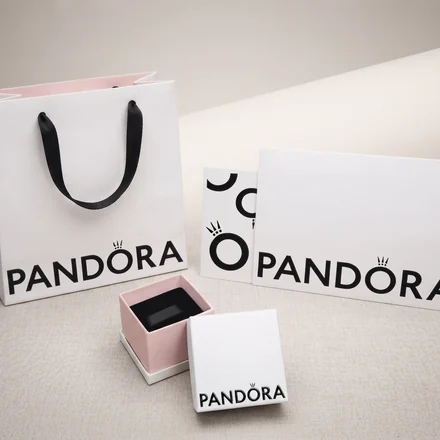
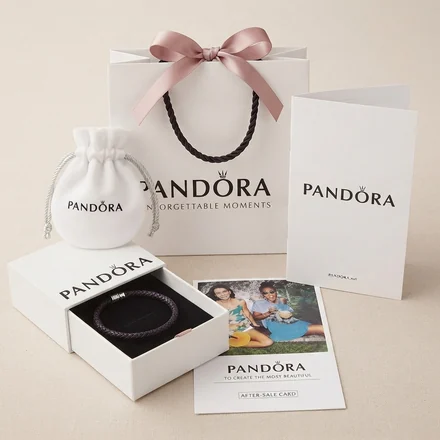
Enseñar el kit de empaque completo, y decir que lo es
El propietario confirma que todo lo que sale en las fotos del empaque es lo que
recibe la clienta por los $40.000. Con eso salen dos correcciones.

La descripcion se quedaba corta: decia "Caja, bolsa y tarjeta" y en el kit va
tambien el saquito. Ahora dice "Bolsa, caja, saquito y tarjeta", en el carrito y
en el resumen del checkout, que son los dos sitios donde aparece.

Y se cambia la foto por la otra de las dos. A 46 px —el tamaño real de la
miniatura— la anterior era una mancha blanca con un asa oscura; esta tiene el
lazo rosa, que le da forma y color, y ademas enseña el saquito y la pieza dentro
de la caja. Que un kit de $40.000 se vea como un kit importa mas que cualquier
rediseño del bump.

Claude-Session: https://claude.ai/code/session_01VSSPYbyepNN7cMwAcyBYuh

diff --git a/index.html b/index.html
@@ -1574,7 +1574,7 @@ body.sheet-open{overflow:hidden}
   <div class="sheet-extras">
     <label class="pack"><input type="checkbox" id="pack">
       <img src="assets/empaque.webp" alt="Empaque Premium: bolsa, caja y tarjeta" width="46" height="46" loading="lazy" decoding="async">
-      <span class="pack-t">Empaque Premium de Regalo <b>+$40.000</b><span class="pack-tag">Recomendado para regalo</span><small>Caja, bolsa y tarjeta</small></span></label>
+      <span class="pack-t">Empaque Premium de Regalo <b>+$40.000</b><span class="pack-tag">Recomendado para regalo</span><small>Bolsa, caja, saquito y tarjeta</small></span></label>
     <div class="pago" id="pago" role="radiogroup" aria-label="Forma de pago">
       <!-- El costo de envío de cada opción lo escribe render(): con el carrito
            por encima del umbral, el anticipado dice «Gratis» y la contraentrega

diff --git a/checkout.html b/checkout.html
@@ -583,7 +583,7 @@ function lineas(c){
       p:CAT.precios[id]*n});
   });
   if(c.empaque) out.push({id:'empaque',n:'Empaque Premium de Regalo',
-    m:'Caja, bolsa y tarjeta',p:CAT.reglas.empaque});
+    m:'Bolsa, caja, saquito y tarjeta',p:CAT.reglas.empaque});
   return out;
 }
 

diff --git a/ESTADO.md b/ESTADO.md
@@ -763,7 +763,7 @@ se entera hasta que alguien va a leer un log por otro motivo.
 
 | Qué | Qué falta |
 |---|---|
-| **Empaque Premium destacado** en el carrito | **Hecho.** Llegó la foto real del empaque (`assets/empaque.webp`) y el bump dejó de ser una casilla de texto: lleva miniatura de 46 px, badge «Recomendado para regalo» y la línea «Caja, bolsa y tarjeta», con la misma gramática que una pieza del carrito. En el resumen del checkout el empaque deja de ser la excepción sin foto —se le quitó el `l.id==='empaque'?null:`— y entra por el camino normal. Sigue en pie la nota del precio: el problema del bump probablemente no es el diseño sino que $40.000 sobre un brazalete de $58.000 es un 69% adicional; antes de rediseñarlo otra vez, probar bajarlo |
+| **Empaque Premium destacado** en el carrito | **Hecho.** Llegó la foto real del empaque (`assets/empaque.webp`) y el bump dejó de ser una casilla de texto: lleva miniatura de 46 px, badge «Recomendado para regalo» y la línea «Bolsa, caja, saquito y tarjeta», con la misma gramática que una pieza del carrito. La descripción decía «Caja, bolsa y tarjeta» y se quedaba corta: el propietario confirmó que todo lo que sale en la foto es lo que recibe la clienta por los $40.000, y ahí va también el saquito. De las dos fotos de empaque se eligió la del lazo rosa: a 46 px la otra es una mancha blanca, y esta además enseña el saquito y la pieza dentro de la caja. En el resumen del checkout el empaque deja de ser la excepción sin foto —se le quitó el `l.id==='empaque'?null:`— y entra por el camino normal. Sigue en pie la nota del precio: el problema del bump probablemente no es el diseño sino que $40.000 sobre un brazalete de $58.000 es un 69% adicional; antes de rediseñarlo otra vez, probar bajarlo |
 | **Logos de medios de pago** al pie del carrito | Los **archivos oficiales** de cada marca. Visa, Mastercard, Nequi, Bancolombia y Daviplata son marcas registradas con guías de uso; no se dibujan aproximaciones |
 | Micro-leyenda de confianza | **Hecha y cerrada.** Bajo el botón de pagar del carrito sale *«Pago procesado por Wompi (Bancolombia)»*, la misma frase que el pie del checkout. **Lo del retracto se descartó por decisión del propietario**, que lo resolvió por otra vía: no va en la leyenda ni en la página, y no hay nada más que hacer ahí. (Había además un motivo para no ponerlo: la política de devoluciones recoge la excepción del artículo 47 para bienes claramente personalizados, y el titular de la tienda es «Personalización total») |
 
